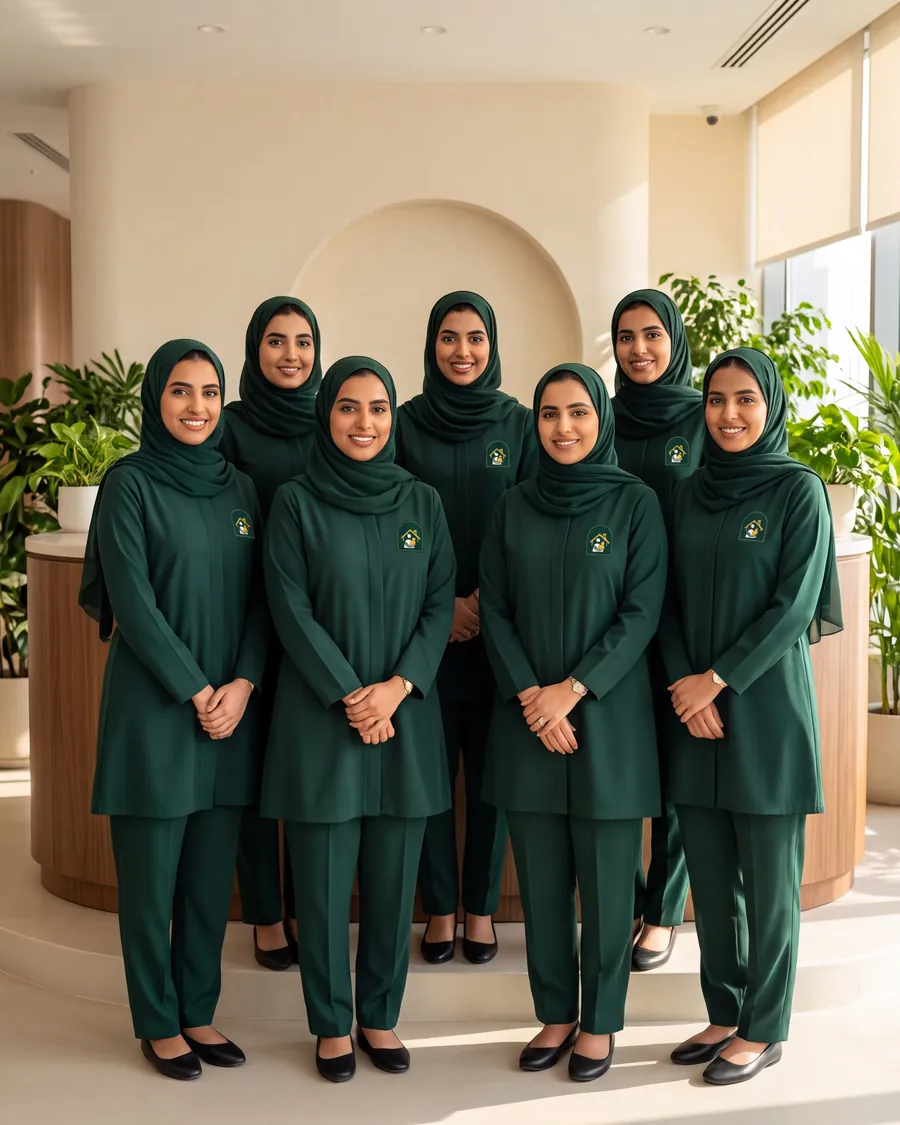
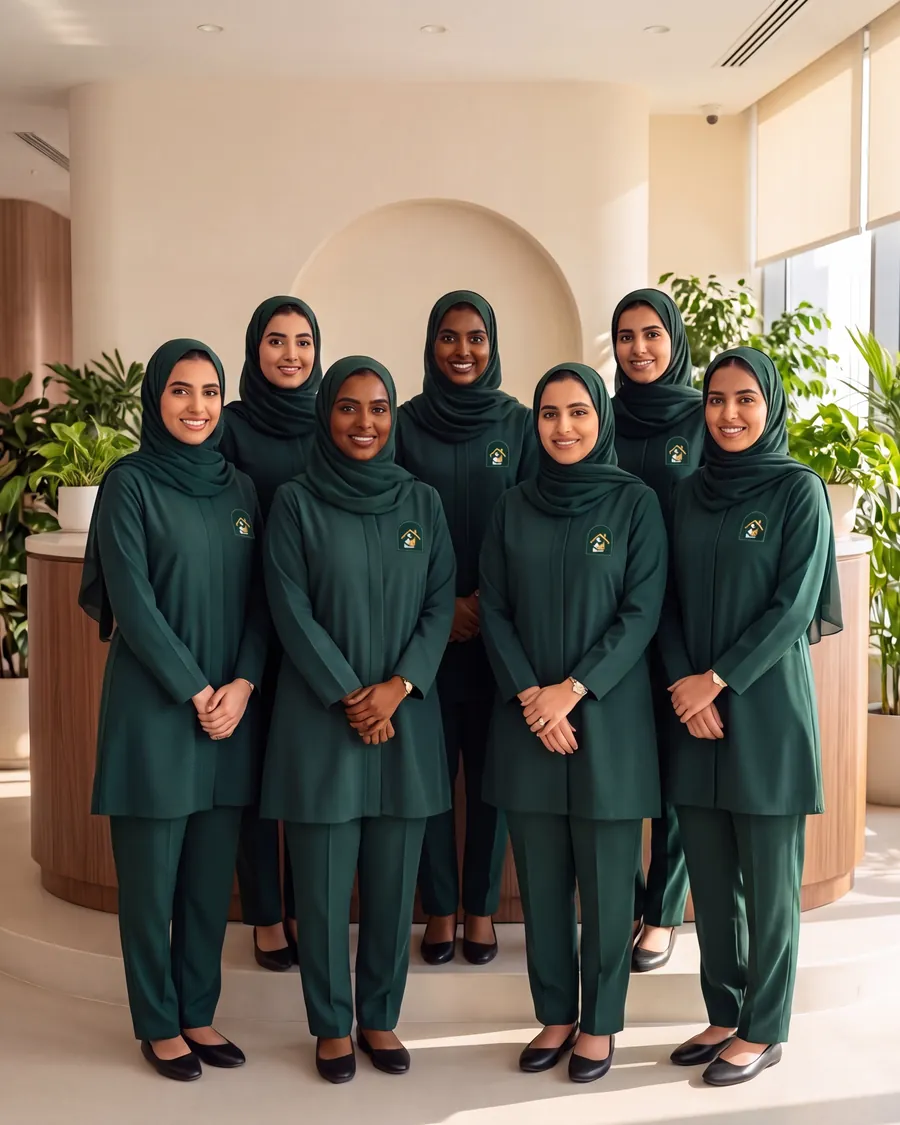
Add darker-skinned staff to the team photo
Edit the team photo so two of the seven women have a darker brown skin
tone, keeping the room, uniforms and logo the same.

diff --git a/site/index.html b/site/index.html
@@ -144,7 +144,7 @@
     <section class="section" aria-labelledby="about-title" style="padding-top: 24px;">
       <div class="container split">
         <div class="split-media">
-          <div class="arch light" style="width: 380px; border-radius: 190px 190px 24px 24px;"><img src="assets/img/photos/team.webp?v=2" width="900" height="1125" alt="The Edinam Destiny team in their green uniforms" data-i18n-attr="alt:home.about.photo" loading="lazy" decoding="async"></div>
+          <div class="arch light" style="width: 380px; border-radius: 190px 190px 24px 24px;"><img src="assets/img/photos/team.webp?v=3" width="900" height="1125" alt="The Edinam Destiny team in their green uniforms" data-i18n-attr="alt:home.about.photo" loading="lazy" decoding="async"></div>
           <div class="float-badge" style="bottom: -18px; inset-inline-end: 24px;"><strong data-i18n="stat.guarantee.big">3 days</strong><span data-i18n="home.about.badge">Free replacement</span></div>
         </div>
         <div class="split-copy">

diff --git a/site/about.html b/site/about.html
@@ -65,7 +65,7 @@
     <section class="section">
       <div class="container split">
         <div class="split-media">
-          <div class="arch light" style="width: 380px; border-radius: 190px 190px 24px 24px;"><img src="assets/img/photos/team.webp?v=2" width="900" height="1125" alt="The Edinam Destiny team in their green uniforms" data-i18n-attr="alt:aboutp.photo" loading="lazy" decoding="async"></div>
+          <div class="arch light" style="width: 380px; border-radius: 190px 190px 24px 24px;"><img src="assets/img/photos/team.webp?v=3" width="900" height="1125" alt="The Edinam Destiny team in their green uniforms" data-i18n-attr="alt:aboutp.photo" loading="lazy" decoding="async"></div>
           <div class="float-card" style="top: 40px; inset-inline-start: 0; box-shadow: 0 16px 36px rgba(13,59,44,.12);"><span><strong data-i18n="aboutp.city">Riyadh</strong><small data-i18n="aboutp.citySub">Families, schools &amp; companies</small></span></div>
         </div>
         <div class="split-copy">
